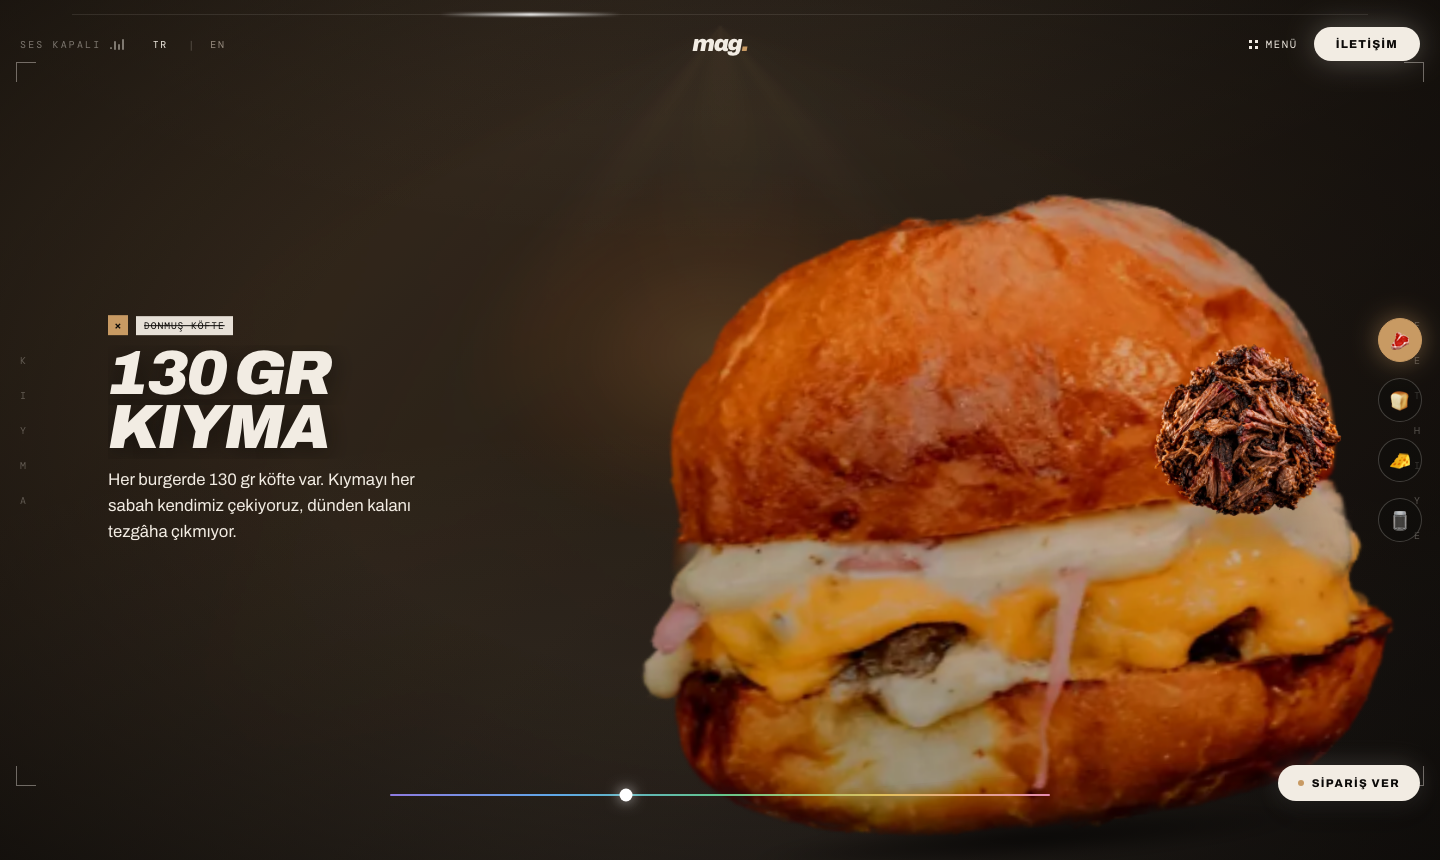
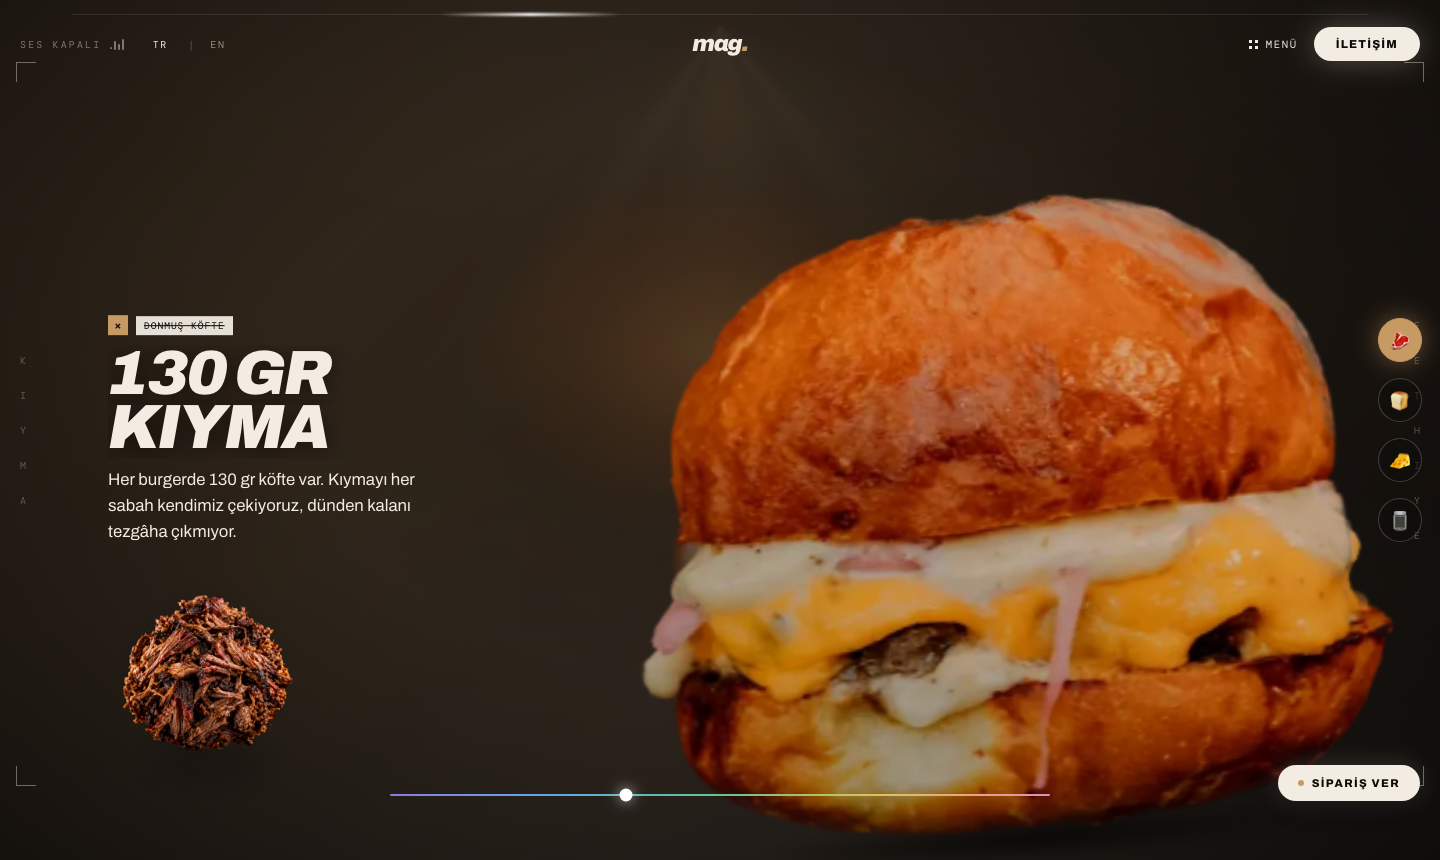
Katman slotu: masaüstünde sol sütuna taşı, radyal karartma ekle
Masaüstü konumu artık `.left`in ölçülerinden hesaplanıyor: sol kenarı başlıkla
hizalı, açıklama paragrafının 28px altında, 200px kare. `.left` dikey ortalı
olduğu için alt kenarı metin uzunluğuyla oynuyordu; konum dört iddia metninin
en uzunundan hesaplanıp sabitleniyor (bottom-anchored), böylece iddialar
arasında zıplamıyor. Ölçüm fontlar geç oturduğunda büyüyebildiği için en büyük
değer tutuluyor ve ResizeObserver ile yeniden ölçülüyor.

Mobil konum değişmedi (sağda, rayın solunda, 140px). Her iki kırılımda da
görselin arkasına çok hafif radyal karartma geldi (rgba(12,10,8,.38) → 0 %70,
slotun %130'u) — koyu köfte arkadaki ekmekle karışmıyor. Gölge, crossfade ve
6px kayma aynı.

Ayrıca: ilk kare adımı ("firstRender") artık rAF içinde senkron işaretleniyor.
Araya giren setTimeout, bağımlılık kimlikleri değişince yeniden kurulan efektin
temizliğiyle iptal olabiliyordu; bu durumda preloader %75'te asılı kalıp sahne
hiç başlamıyordu (mobilde tetiklendi).

Changed region(s): [[0.7812, 0.393, 0.9375, 0.6349], [0.0625, 0.6953, 0.2188, 0.8767]]

diff --git a/components/stage/StageSlot.tsx b/components/stage/StageSlot.tsx
@@ -1,14 +1,33 @@
 "use client";
 
-import { useEffect, useRef, useState } from "react";
+import { useEffect, useLayoutEffect, useRef, useState } from "react";
+
+/** açıklama paragrafı ile slot arasındaki boşluk (masaüstü) */
+const GAP = 28;
+/** masaüstünde slot kenarı */
+const SIZE = 200;
+
+interface Props {
+  image?: string;
+  /** dört iddia açıklaması — slot konumu en uzun olanına göre sabitlenir */
+  descs?: string[];
+}
 
 /**
- * Katman aşaması slotu — iddia bölümünde, ikon rayının hemen solunda, rayla dikey hizalı.
- * Görseller şeffaf WebP: kutu/çerçeve yok, karışım normal — görsel doğrudan sahnede yüzer,
- * altında yumuşak elips gölge. Slot `.scene` dışında, sahne kökünde durur ki sahnenin
- * opacity'si aşama görselini soldurmasın.
+ * Katman aşaması slotu.
+ *
+ * Masaüstü: sol sütunda, açıklama paragrafının 28px altında, sol kenarı başlıkla hizalı.
+ * `.left` dikey ortalanmış olduğu için alt kenarı metin uzunluğuyla oynar. Slot dört iddiada da
+ * aynı yerde dursun diye konum, iddia metinlerinin **en uzunu** ölçülerek hesaplanır
+ * (bottom-anchored); iddia değişince güncellenmez.
+ *
+ * Mobil: sağda, ikon rayının solunda — konum CSS'ten gelir.
+ *
+ * Kutu/çerçeve yok: şeffaf WebP doğrudan sahnede yüzer; arkasında çok hafif radyal karartma
+ * (koyu köfte arkadaki ekmekle karışmasın), altında yumuşak elips gölge.
+ * Slot `.scene` dışında, sahne kökünde durur ki sahnenin opacity'si görseli soldurmasın.
  */
-export default function StageSlot({ image }: { image?: string }) {
+export default function StageSlot({ image, descs }: Props) {
   /* aşama değişince eski görsel 350 ms daha durur (crossfade) */
   const [prev, setPrev] = useState<string | null>(null);
   const last = useRef(image);
@@ -22,9 +41,76 @@ export default function StageSlot({ image }: { image?: string }) {
     return () => window.clearTimeout(id);
   }, [image]);
 
+  /* masaüstü konumu: `.left`in x hizası + iddia metinlerinin en uzunundan gelen alt kenar */
+  const [pos, setPos] = useState<{ left: number; top: number } | null>(null);
+  /* dizi her render'da yeniden üretiliyor; efekt kimliğe değil içeriğe bağlansın */
+  const descsKey = (descs ?? []).join("\u0000");
+  /* Ölçülen en büyük alt kenar: slot dört iddiada da aynı yerde kalsın diye yalnızca büyür. */
+  const maxBottom = useRef(0);
+  useLayoutEffect(() => {
+    maxBottom.current = 0;
+  }, [descsKey]);
+
+  useLayoutEffect(() => {
+    const measure = () => {
+      if (window.innerWidth < 900) {
+        setPos(null); // mobilde konum CSS'ten gelir
+        return;
+      }
+      const left = document.querySelector<HTMLElement>(".scDive .left");
+      const p = left?.querySelector<HTMLElement>("p");
+      if (!left || !p || !p.clientWidth) return;
+
+      /* En uzun iddia paragrafını ölç: paragrafın kendisini değiştirmek yerine aynı yazı ve
+         genişlik ayarlarına sahip, akış dışında gizli bir ölçüm kutusu kullanılır. */
+      const cs = getComputedStyle(p);
+      const probe = document.createElement("p");
+      probe.style.cssText =
+        `position:absolute;left:0;top:0;visibility:hidden;pointer-events:none;margin:0;` +
+        `font:${cs.font};letter-spacing:${cs.letterSpacing};line-height:${cs.lineHeight};` +
+        `width:${p.clientWidth}px`;
+      document.body.appendChild(probe);
+      let maxP = p.offsetHeight;
+      for (const d of descsKey ? descsKey.split("\u0000") : []) {
+        probe.textContent = d;
+        maxP = Math.max(maxP, probe.offsetHeight);
+      }
+      document.body.removeChild(probe);
+
+      /* `.left` dikey ortalı: alt kenar = merkez + yükseklik/2 (yükseklik en uzun paragrafa göre).
+         Ölçüm fontlar/metin geç oturduğunda büyüyebilir; en büyüğünü tutarız ki slot geri zıplamasın. */
+      const h = left.offsetHeight - p.offsetHeight + maxP;
+      const stageH = (left.offsetParent as HTMLElement | null)?.clientHeight ?? window.innerHeight;
+      const bottom = stageH / 2 + h / 2;
+      if (bottom <= maxBottom.current) return;
+      maxBottom.current = bottom;
+      setPos({ left: left.offsetLeft, top: Math.round(bottom + GAP) });
+    };
+
+    measure();
+    /* Webfont'lar ve iddia metni geç oturur; her ikisinde de yeniden ölç. */
+    document.fonts?.ready.then(measure).catch(() => {});
+    const left = document.querySelector<HTMLElement>(".scDive .left");
+    const ro = left ? new ResizeObserver(measure) : null;
+    if (left && ro) ro.observe(left);
+    window.addEventListener("resize", measure);
+    return () => {
+      ro?.disconnect();
+      window.removeEventListener("resize", measure);
+    };
+  }, [descsKey]);
+
   if (!image) return null;
   return (
-    <div className="stageSlot" aria-hidden="true">
+    <div
+      className="stageSlot"
+      aria-hidden="true"
+      style={
+        pos
+          ? { left: pos.left, top: pos.top, right: "auto", translate: "0 0", width: SIZE, height: SIZE }
+          : undefined
+      }
+    >
       {prev ? (
         // eslint-disable-next-line @next/next/no-img-element -- yol build'de doğrulanır, boyut CSS'te
         <img key={prev} className="out" src={prev} alt="" decoding="async" />

diff --git a/components/stage/Stage.tsx b/components/stage/Stage.tsx
@@ -259,16 +259,17 @@ export default function Stage({ stages, extra }: { stages?: StageMap; extra?: Ex
   const firstPaintDone = useRef(false);
   useEffect(() => {
     if (reduced || preDone || firstPaintDone.current) return;
-    firstPaintDone.current = true;
-    let done = 0;
     const raf = requestAnimationFrame(() => {
+      /* Bayrağı ancak kare gerçekten çizilince kaldır: efekt yeniden kurulursa (bağımlılık
+         kimlikleri değişince) temizlik bekleyen rAF'ı iptal eder; bayrak baştan set edilseydi
+         "firstRender" adımı bir daha hiç işaretlenmez ve preloader %75'te asılı kalırdı. */
+      firstPaintDone.current = true;
       render(0);
-      done = window.setTimeout(() => load.mark("firstRender"), 0);
+      /* Adımı burada, senkron işaretle. Araya setTimeout girerse yeniden kurulan efektin
+         temizliği onu iptal edebiliyor ve preloader hiç kalkmıyordu. */
+      load.mark("firstRender");
     });
-    return () => {
-      cancelAnimationFrame(raf);
-      window.clearTimeout(done);
-    };
+    return () => cancelAnimationFrame(raf);
   }, [reduced, preDone, render, load]);
 
   /* Preloader süresinde 5 cutout'u (ve yansımaları) decode et: ilk kaydırmada ana iş parçacığında decode takılması olmasın */
@@ -398,7 +399,10 @@ export default function Stage({ stages, extra }: { stages?: StageMap; extra?: Ex
           </div>
         </section>
 
-        <StageSlot image={ci >= 0 ? stages?.[it.id]?.[STAGE_KEYS[ci]] : undefined} />
+        <StageSlot
+          image={ci >= 0 ? stages?.[it.id]?.[STAGE_KEYS[ci]] : undefined}
+          descs={t.claims.map((c) => c.d)}
+        />
         <Claims
           item={it}
           desc={itemDesc(t, it) ?? it.desc}

diff --git a/components/stage/stage.css b/components/stage/stage.css
@@ -561,13 +561,26 @@ html.lm .arrow {
    altında yumuşak elips gölge. Slot `.scene` dışında, sahne kökünde durur. */
 .stageSlot {
   position: absolute;
-  /* ray: right 18px + 44px genişlik + 20px boşluk */
+  /* Masaüstü konumu JS'ten gelir (`.left`in alt kenarına göre); buradakiler ölçümden
+     önceki ilk kare ve mobil için yedek. */
   right: 82px;
   top: 50%;
   translate: 0 -50%;
   z-index: 31;
   width: 220px;
   height: 220px;
+  pointer-events: none;
+}
+.stageSlot::before {
+  /* çok hafif radyal karartma: koyu köfte arkadaki ekmekle karışmasın */
+  content: "";
+  position: absolute;
+  left: 50%;
+  top: 50%;
+  translate: -50% -50%;
+  width: 130%;
+  height: 130%;
+  background: radial-gradient(closest-side, rgba(12, 10, 8, 0.38) 0%, rgba(12, 10, 8, 0) 70%);
   pointer-events: none;
 }
 .stageSlot::after {
